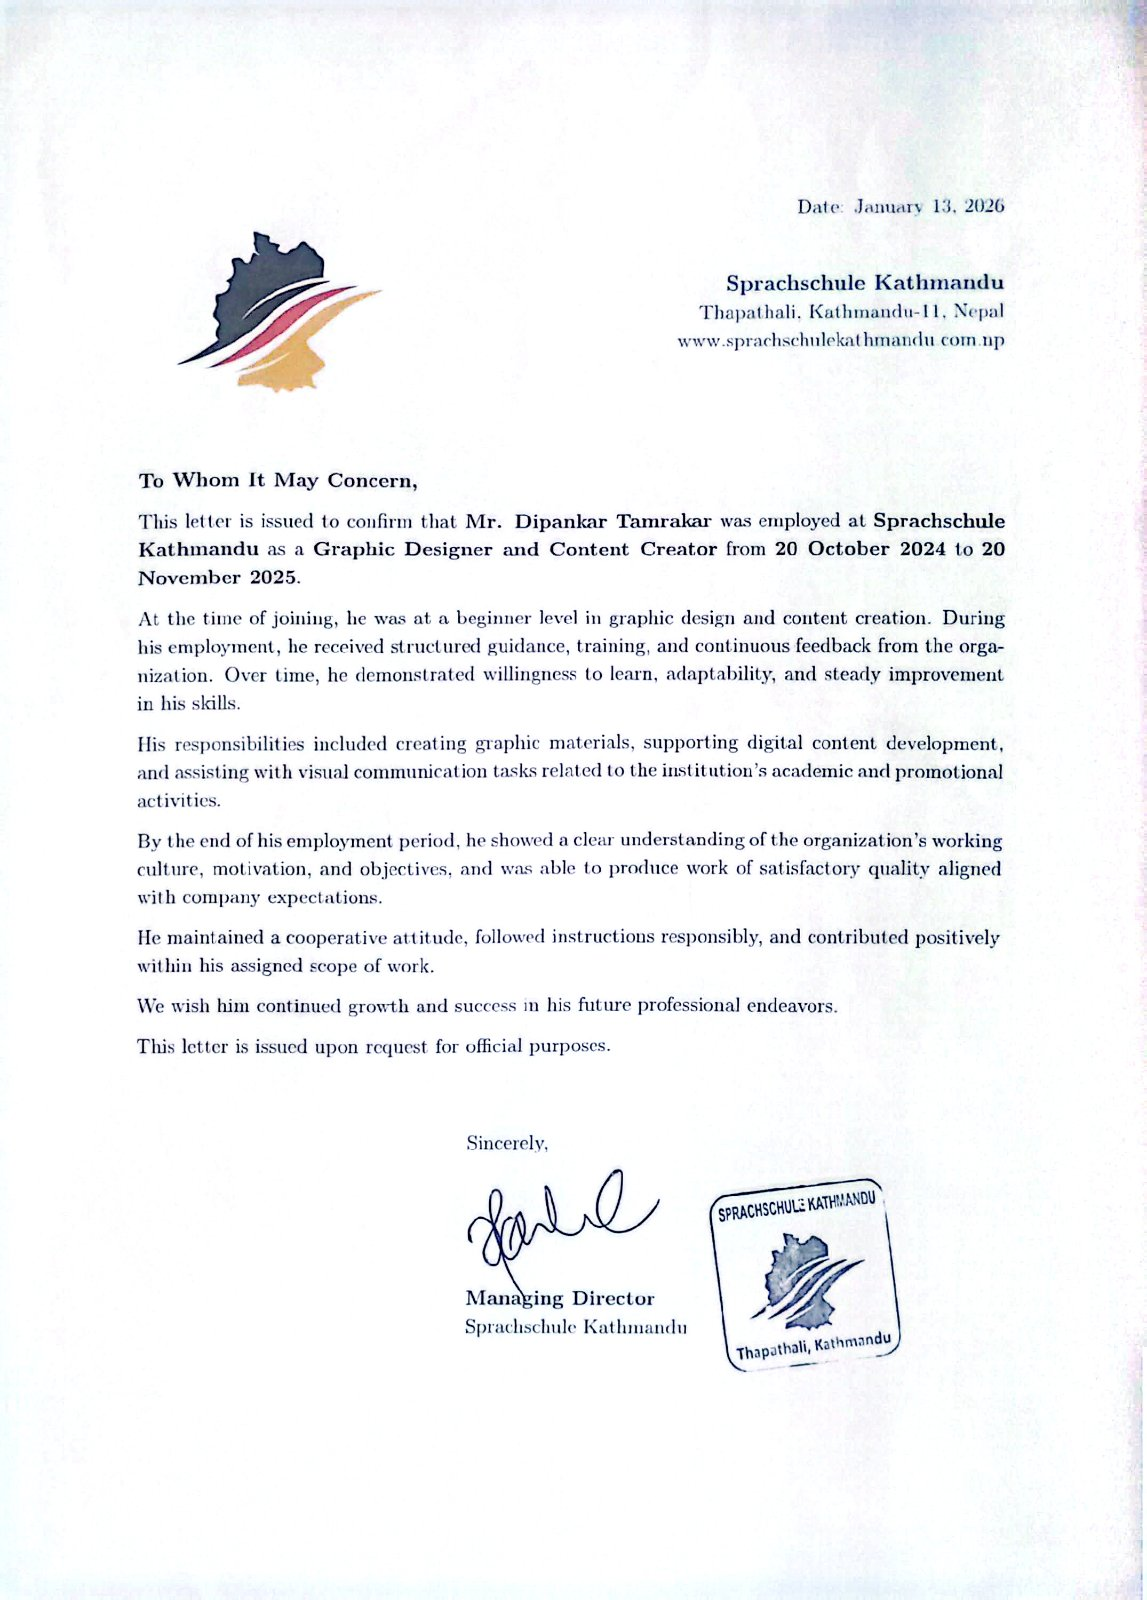
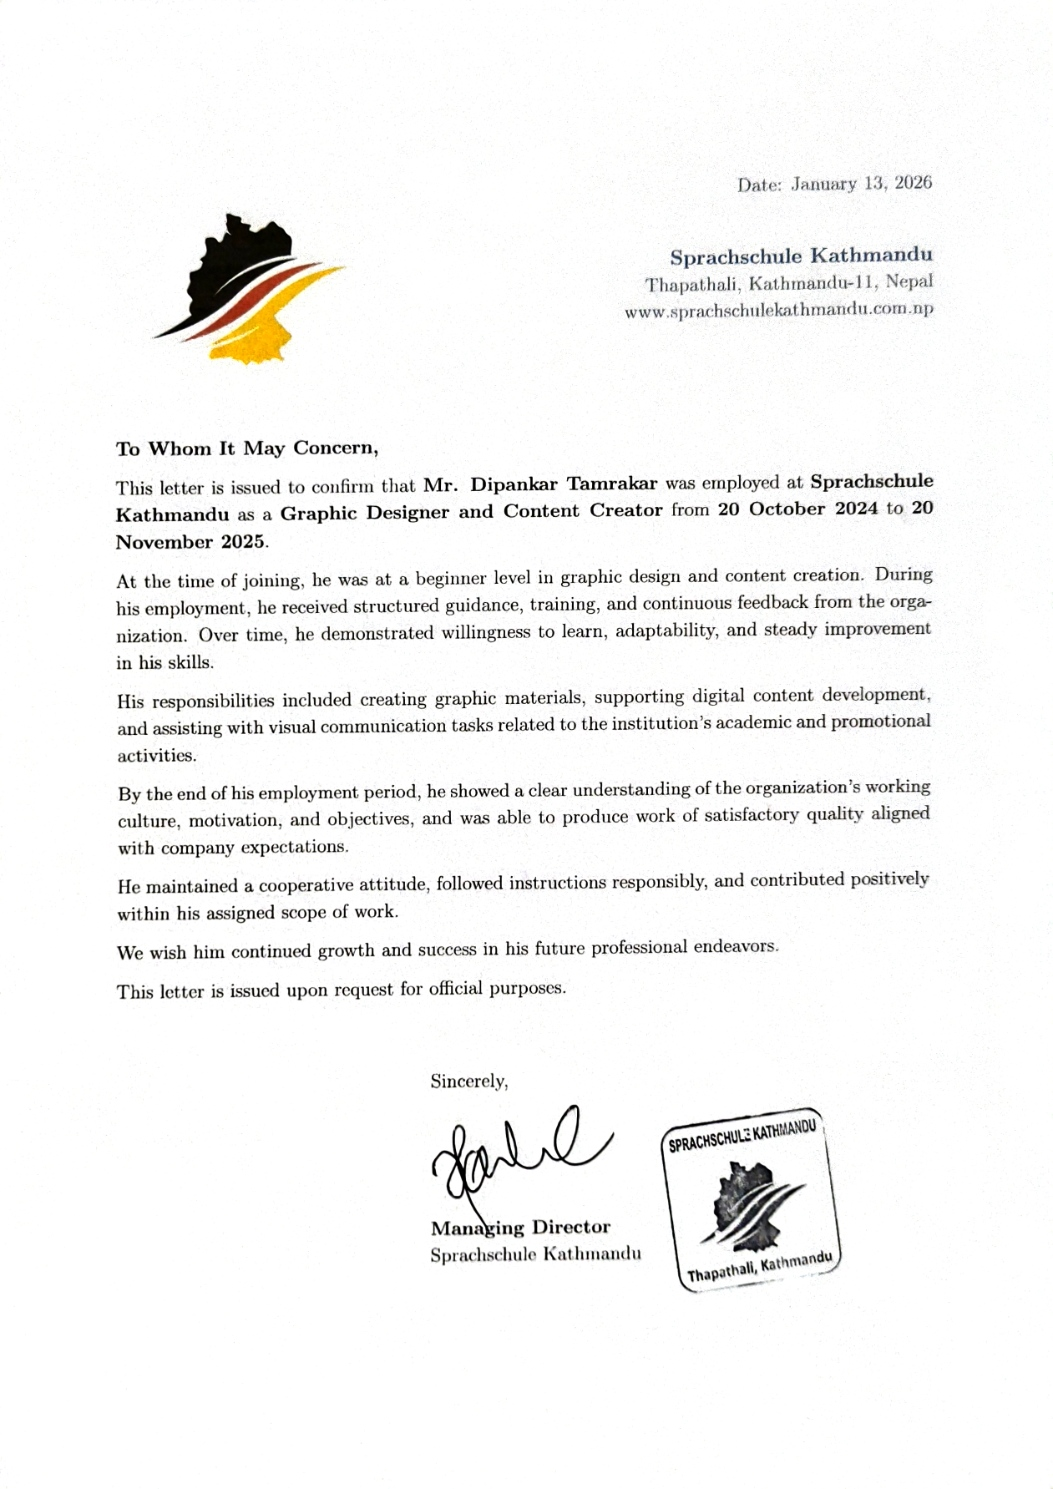
Sprachschule ExpLetter Updated

diff --git a/index.html b/index.html
@@ -106,7 +106,7 @@
                         <div class="timeline-node">
                             <div class="node-meta-row">
                                 <span class="node-status-tag verified">VERIFIED WORK</span>
-                                <span class="node-timeline-date">NOV 2025 - FEB 2026</span>
+                                <span class="node-timeline-date">JUNE 2025 - JULY 2026</span>
                             </div>
                             <h4>Paila Education Consultancy</h4>
                             <div class="node-role">Graphic Designer & Video Editor</div>
@@ -116,7 +116,7 @@
                         <div class="timeline-node">
                             <div class="node-meta-row">
                                 <span class="node-status-tag verified">VERIFIED WORK</span>
-                                <span class="node-timeline-date">JUNE 2024 - JULY 2025</span>
+                                <span class="node-timeline-date">OCT 2024 - NOV 2025</span>
                             </div>
                             <h4>Sprachschule Kathmandu</h4>
                             <div class="node-role">Graphic Designer & Video Editor</div>
